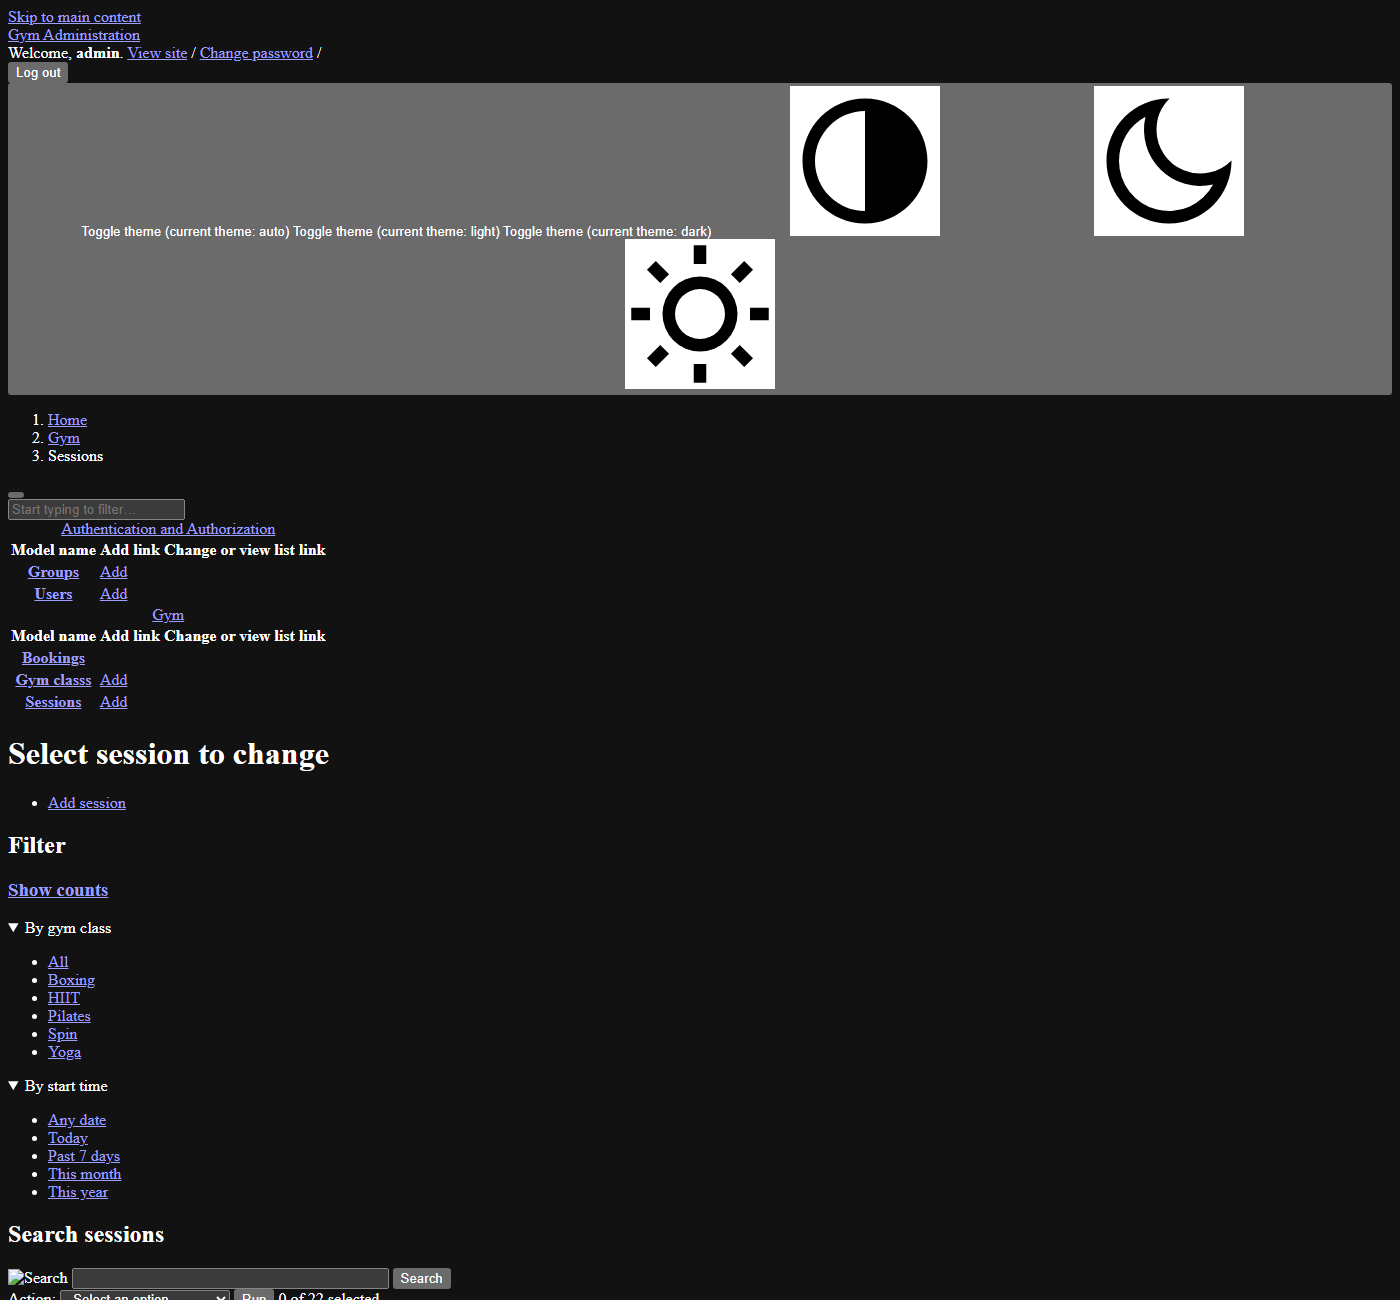
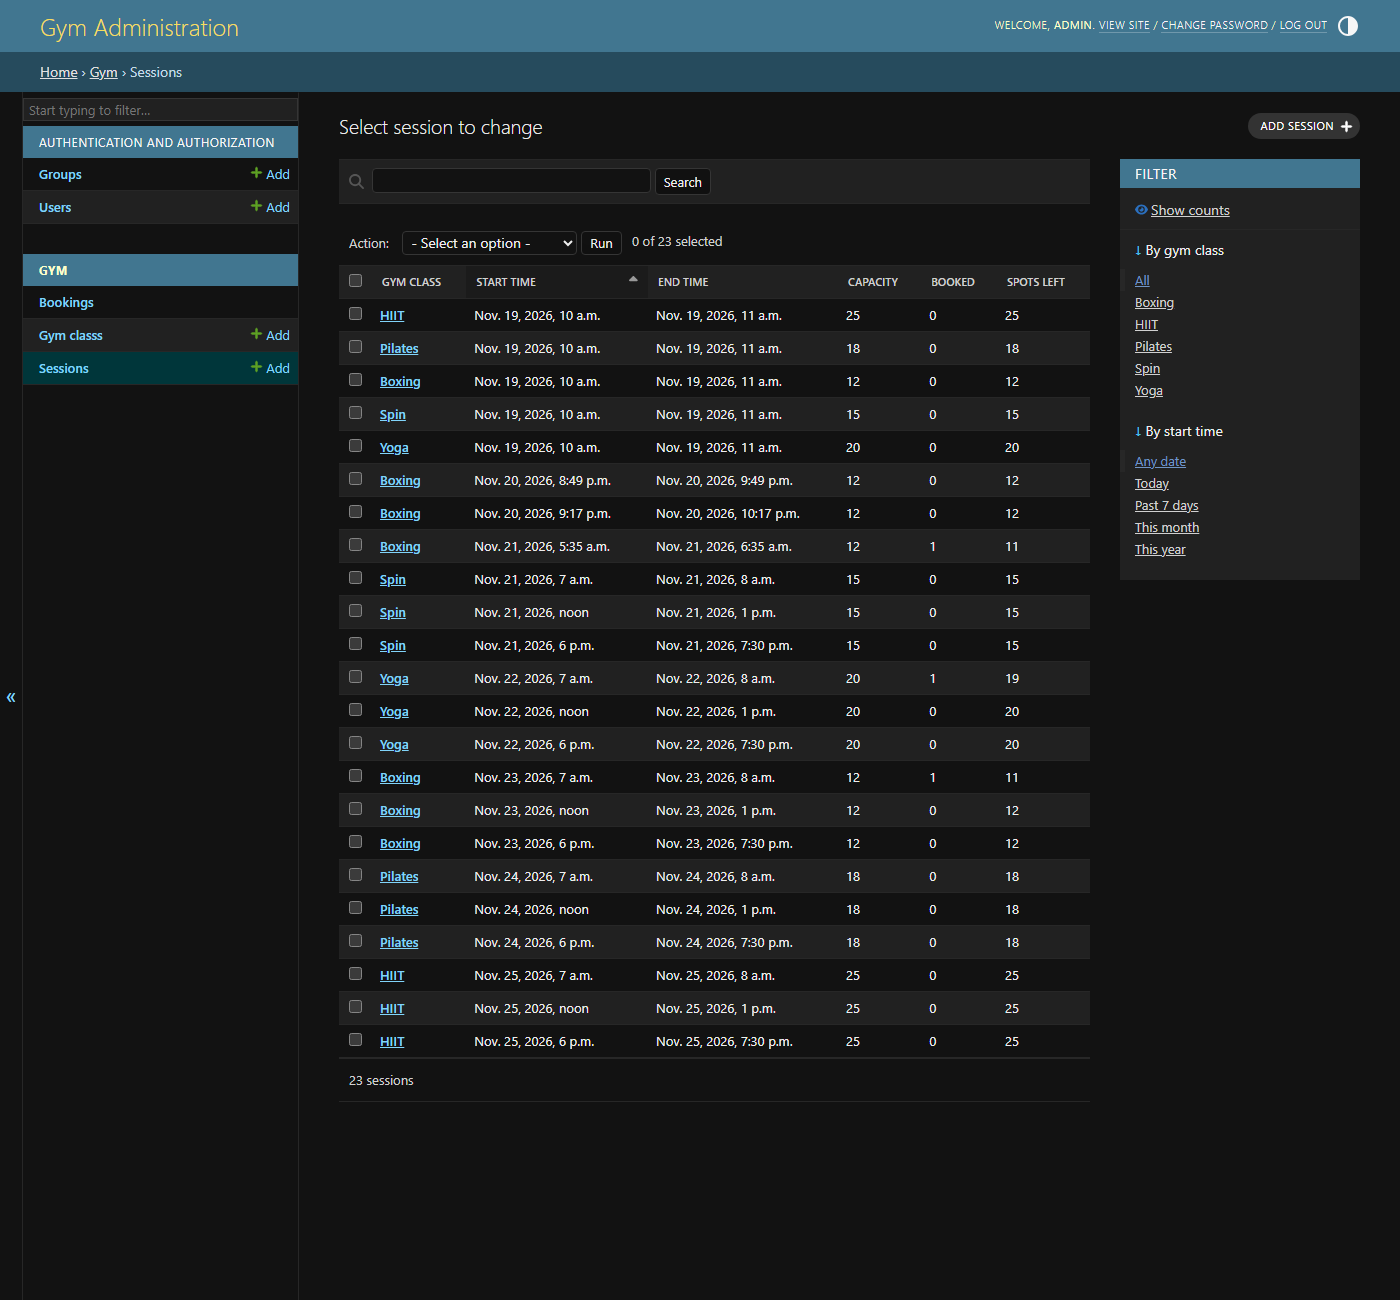
Fix smoke test side effects and unstyled admin screenshots
- smoke_test full-session check now uses a throwaway session instead of
  mutating a real session's capacity and deleting other members' bookings
- screenshots.py rewrites /static/ URLs to absolute file:/// paths so the
  Django admin renders fully styled in file:// screenshots
- regenerate all 6 screenshots (admin pages now styled)
- update PROJECT_STATUS.md with the two additional fixes

diff --git a/smoke_test.py b/smoke_test.py
@@ -144,27 +144,16 @@ if past:
 else:
     check("Past session exists (run seed_data.py)", False, "no past session found")
 
-# 11. Full sessions cannot be booked
-fill_target = (
-    Session.objects.filter(start_time__gt=timezone.now())
-    .order_by("start_time")
-    .last()
+# 11. Full sessions cannot be booked (throwaway session so no existing
+# session, capacity, or other member's booking is touched)
+fill_target = Session.objects.create(
+    gym_class=GymClass.objects.first(),
+    start_time=timezone.now() + timedelta(days=1),
+    end_time=timezone.now() + timedelta(days=1, hours=1),
+    capacity=1,
 )
-original_capacity = fill_target.capacity
-fill_target.capacity = (
-    Booking.objects.filter(session=fill_target, status="active").count() + 1
-)
-fill_target.save()
-filler_index = 0
-while not fill_target.is_full:
-    filler_index += 1
-    filler, created = User.objects.get_or_create(
-        username=f"filler{filler_index}"
-    )
-    if created:
-        filler.set_password("pw12345!")
-        filler.save()
-    Booking.objects.get_or_create(user=filler, session=fill_target)
+filler, _ = User.objects.get_or_create(username="filler1")
+Booking.objects.get_or_create(user=filler, session=fill_target)
 fill_target.refresh_from_db()
 before = fill_target.booked_count
 c.post(f"/book/{fill_target.id}/", follow=True)
@@ -174,11 +163,7 @@ check(
     fill_target.is_full and fill_target.booked_count == before,
     f"(booked={fill_target.booked_count}/{fill_target.capacity})",
 )
-Booking.objects.filter(session=fill_target).exclude(
-    user__username=username
-).delete()
-fill_target.capacity = original_capacity
-fill_target.save()
+fill_target.delete()  # cascades the filler booking
 
 # 12. Cancellation works well before the start time
 c.post(f"/cancel/{booking.id}/", follow=True)

diff --git a/screenshots.py b/screenshots.py
@@ -9,9 +9,11 @@ adds demo bookings for the "smoketester" account so every booking state is
 visible in the screenshots.
 """
 import os
+import re
 import subprocess
 import sys
 from datetime import timedelta
+from pathlib import Path
 
 import django
 
@@ -20,6 +22,7 @@ sys.path.insert(0, os.path.dirname(os.path.abspath(__file__)))
 django.setup()
 
 from django.contrib.auth.models import User  # noqa: E402
+from django.contrib.staticfiles import finders  # noqa: E402
 from django.test import Client  # noqa: E402
 from django.utils import timezone  # noqa: E402
 
@@ -100,6 +103,24 @@ pages = [
 ]
 
 saved = []
+
+
+def rewrite_static_urls(html):
+    """Point /static/... references at the real files.
+
+    Screenshots open the rendered HTML from file:///, where Django's /static/
+    URLs do not resolve, so the admin pages would render unstyled.
+    """
+
+    def replace(match):
+        found = finders.find(match.group(2))
+        if found:
+            return match.group(1) + "file:///" + Path(found).as_posix()
+        return match.group(0)
+
+    return re.sub(r'(["\'])/static/([^"\']+)', replace, html)
+
+
 for name, client, url, height in pages:
     response = client.get(url, follow=True)
     if response.status_code != 200:
@@ -107,7 +128,7 @@ for name, client, url, height in pages:
         continue
     path = os.path.join(OUT, name + ".html")
     with open(path, "w", encoding="utf-8") as handle:
-        handle.write(response.content.decode("utf-8"))
+        handle.write(rewrite_static_urls(response.content.decode("utf-8")))
     saved.append((name, path, height))
     print(f"rendered {name} <- {url}")
 

diff --git a/PROJECT_STATUS.md b/PROJECT_STATUS.md
@@ -79,12 +79,18 @@ GitHub or any remote repository.**
     filler/victim users cleaned up at end (verified 2 consecutive runs).
 17. **`screenshots.py` created duplicate near-sessions each run** → reuses
     an existing session in the 20min–2h window.
+18. **`smoke_test.py` full-session check mutated a real session** (changed
+    its capacity and deleted other members' bookings) → now uses a
+    throwaway session that is deleted afterwards (no side effects).
+19. **Admin screenshots rendered unstyled** (`/static/` URLs don't resolve
+    from `file:///`) → `screenshots.py` now rewrites static references to
+    absolute `file:///` paths via the staticfiles finders.
 
 ### Configuration
-18. **Dead `MAILERS` setting** (not a real Django setting) removed.
-19. **`requirements.txt` unpinned** → pinned to `Django==6.1.3`.
-20. **Duplicate assertion block** left in `tests.py` from diagnostics removed.
-21. **`test_db.sqlite3`** added to `.gitignore` (file-backed test DB).
+20. **Dead `MAILERS` setting** (not a real Django setting) removed.
+21. **`requirements.txt` unpinned** → pinned to `Django==6.1.3`.
+22. **Duplicate assertion block** left in `tests.py` from diagnostics removed.
+23. **`test_db.sqlite3`** added to `.gitignore` (file-backed test DB).
 
 ---
 
